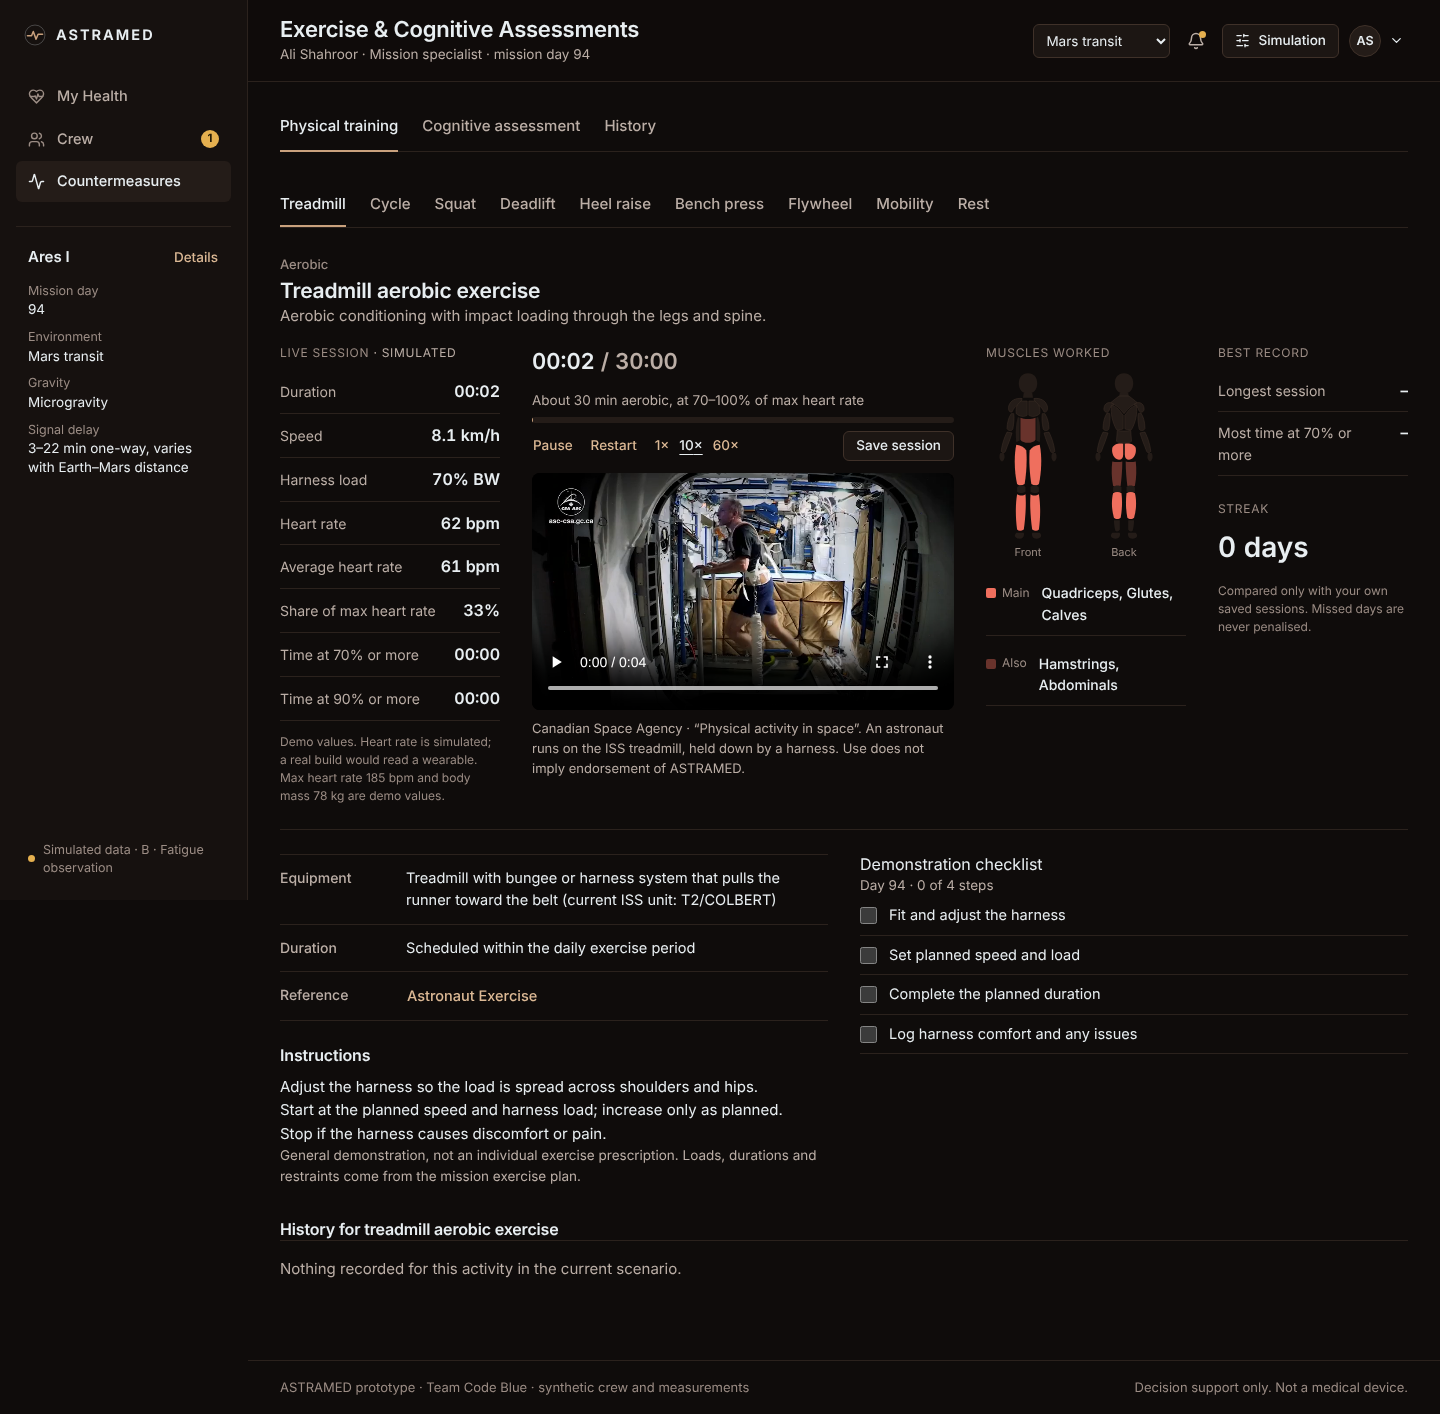
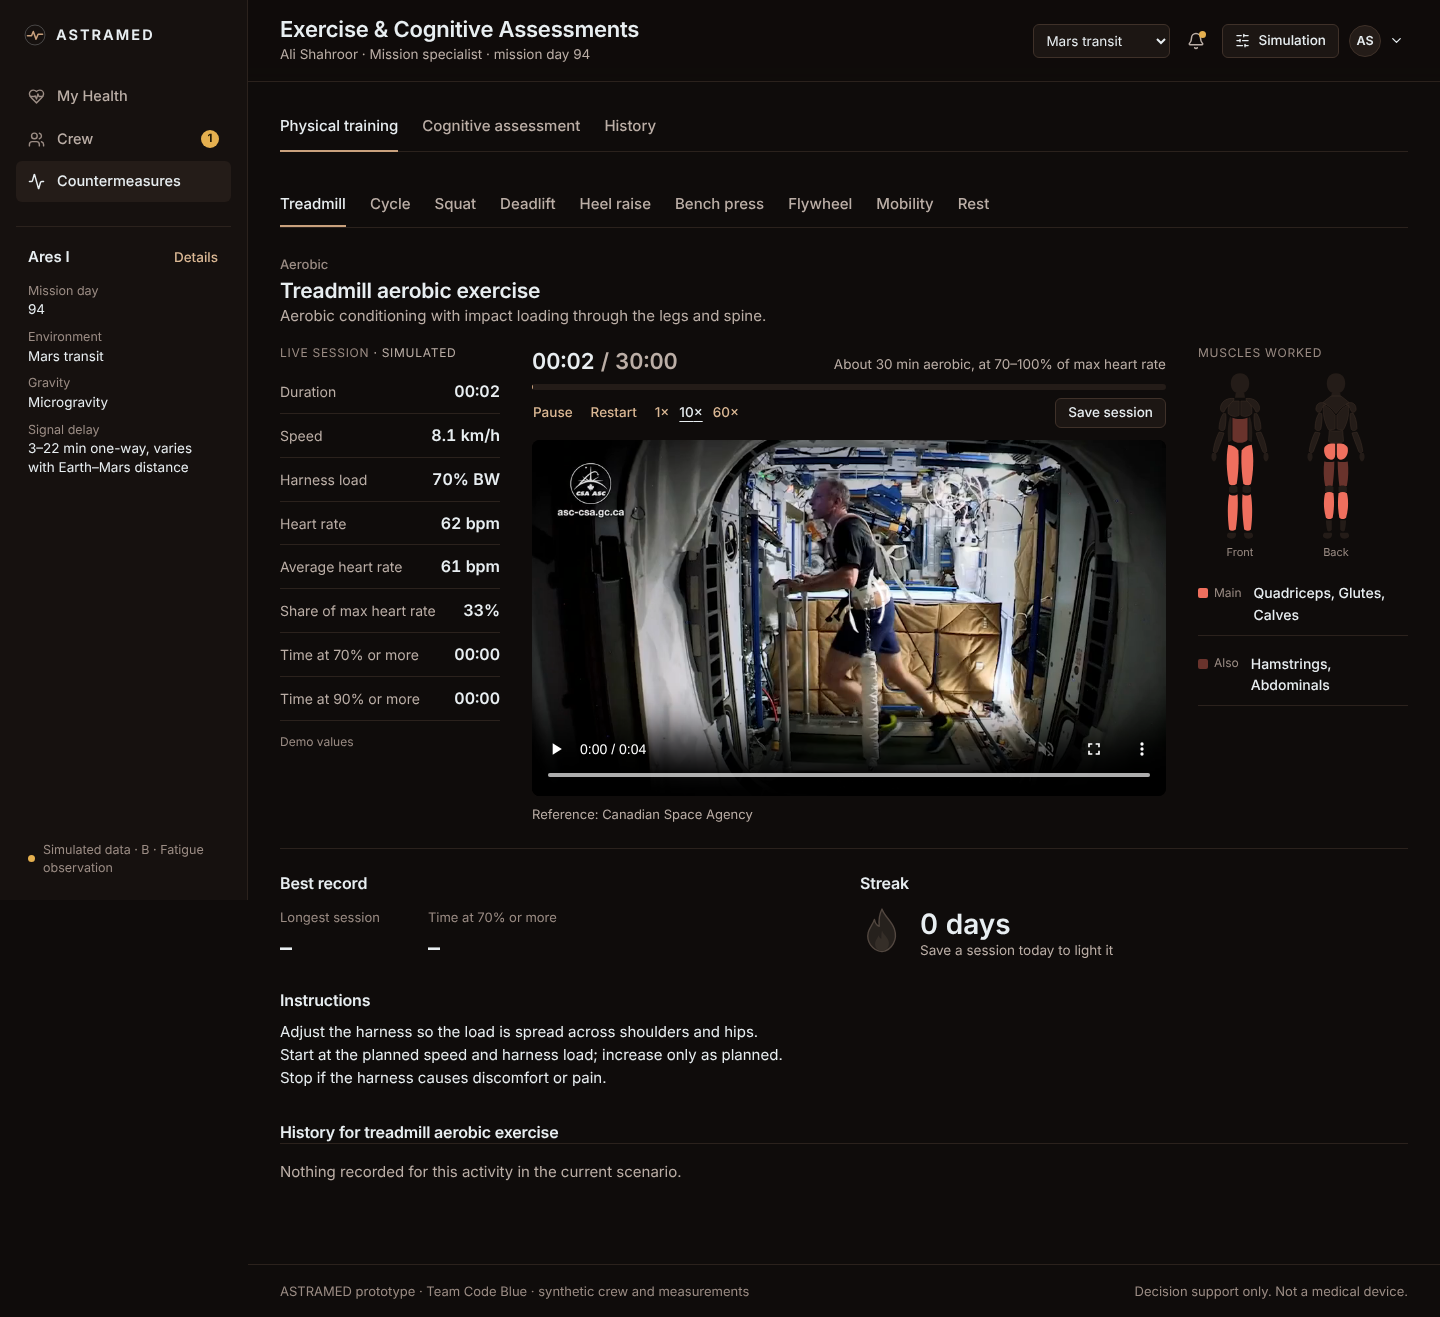
Exercise page: short notes, best record and streak below the clip
- Notes shortened to "Demo values" and "Reference: <agency>"
- Checklist and equipment/duration/reference rows removed on exercise tabs
- Best record shown as numbers side by side; streak with an unlit/lit flame image

Claude-Session: https://claude.ai/code/session_01Y4tBbifeZJJN8wfoyAcbxp

diff --git a/src/components/ExerciseStage.tsx b/src/components/ExerciseStage.tsx
@@ -14,12 +14,9 @@ export interface StageSave { seconds: number; metrics: SessionMetrics }
  * Exercise page: live metrics on the left, the looping clip with a session bar in the middle,
  * worked muscles and personal records on the right. Values come from a simulated demo session.
  */
-export function ExerciseStage({ a, restHr, bests, streak, broken, onSave }: {
+export function ExerciseStage({ a, restHr, onSave }: {
   a: Activity;
   restHr: number;
-  bests: Bests;
-  streak: number;
-  broken: string[];
   onSave: (s: StageSave) => void;
 }) {
   const kind = a.kind as Kind;
@@ -98,17 +95,6 @@ export function ExerciseStage({ a, restHr, bests, streak, broken, onSave }: {
 
   const pct = (demo.sec / plan.maxSec) * 100;
   const minPct = (plan.minSec / plan.maxSec) * 100;
-  const records: [string, string][] = kind === "aerobic" ? [
-    ["Longest session", bests.longestSec ? formatClock(bests.longestSec) : "–"],
-    ["Most time at 70% or more", bests.secAbove70 ? formatClock(bests.secAbove70) : "–"],
-  ] : kind === "strength" ? [
-    ["Estimated max", bests.estMax ? `${fmt(bests.estMax, 1)} kg` : "–"],
-    ["Heaviest set", bests.topLoad ? `${fmt(bests.topLoad)} kg` : "–"],
-    ["Best volume", bests.volume ? `${fmt(bests.volume)} kg` : "–"],
-  ] : [
-    ["Most reps", bests.reps ? fmt(bests.reps) : "–"],
-    ["Longest session", bests.longestSec ? formatClock(bests.longestSec) : "–"],
-  ];
 
   return (
     <section className="xs" aria-label={`${a.title} session`}>
@@ -117,7 +103,7 @@ export function ExerciseStage({ a, restHr, bests, streak, broken, onSave }: {
         <dl>
           {rows.map(([k, v]) => <div key={k}><dt>{k}</dt><dd>{v}</dd></div>)}
         </dl>
-        <p className="xs-note">Demo values. Heart rate is simulated; a real build would read a wearable. Max heart rate {DEMO_MAX_HR} bpm and body mass {DEMO_BODY_MASS_KG} kg are demo values.</p>
+        <p className="xs-note">Demo values</p>
       </div>
 
       <div className="xs-center">
@@ -142,20 +128,14 @@ export function ExerciseStage({ a, restHr, bests, streak, broken, onSave }: {
         {a.clip ? <Clip clip={a.clip} /> : <div className="xs-noclip">No demonstration clip for this exercise yet.</div>}
       </div>
 
-      {a.muscles && (
-        <div className="xs-body">
-          <p className="xs-eyebrow">Muscles worked</p>
-          <BodyMap primary={a.muscles.primary} secondary={a.muscles.secondary} />
-        </div>
-      )}
+      <div className="xs-side">
+        {a.muscles && (
+          <div className="xs-body">
+            <p className="xs-eyebrow">Muscles worked</p>
+            <BodyMap primary={a.muscles.primary} secondary={a.muscles.secondary} />
+          </div>
+        )}
 
-      <div className="xs-records">
-        <p className="xs-eyebrow">Best record</p>
-        <dl>{records.map(([k, v]) => <div key={k}><dt>{k}</dt><dd>{v}</dd></div>)}</dl>
-        {broken.length > 0 && <p className="xs-new" role="status">New best: {broken.join(", ")}</p>}
-        <p className="xs-eyebrow spaced">Streak</p>
-        <p className="xs-streak">{streak} {streak === 1 ? "day" : "days"}</p>
-        <p className="xs-note">Compared only with your own saved sessions. Missed days are never penalised.</p>
       </div>
     </section>
   );
@@ -166,9 +146,47 @@ function Clip({ clip }: { clip: ExerciseClip }) {
     <figure className="xs-clip">
       <video src={`${import.meta.env.BASE_URL}${clip.src}`} autoPlay={!reduceMotion} controls={reduceMotion} muted loop playsInline preload="auto" aria-label={`Looping demonstration: ${clip.shows}`} />
       <figcaption className="video-credit">
-        {clip.credit} · “{clip.title}”{clip.page && <> · <a href={clip.page} target="_blank" rel="noreferrer">Source</a></>}. {clip.shows}{clip.exact ? "" : " Shows the device, not this exact exercise."}
-        {" "}Use does not imply endorsement of ASTRAMED.
+        Reference: {clip.page ? <a href={clip.page} target="_blank" rel="noreferrer">{clip.credit}</a> : clip.credit}{clip.exact ? "" : " · shows the device, not this exact lift"}
       </figcaption>
     </figure>
+  );
+}
+
+/** Personal bests for one exercise, shown as a heading with the numbers side by side. */
+export function BestRecord({ kind, bests, broken }: { kind: Kind; bests: Bests; broken: string[] }) {
+  const items: [string, string][] = kind === "aerobic" ? [
+    ["Longest session", bests.longestSec ? formatClock(bests.longestSec) : "–"],
+    ["Time at 70% or more", bests.secAbove70 ? formatClock(bests.secAbove70) : "–"],
+  ] : kind === "strength" ? [
+    ["Estimated max", bests.estMax ? `${fmt(bests.estMax, 1)} kg` : "–"],
+    ["Heaviest set", bests.topLoad ? `${fmt(bests.topLoad)} kg` : "–"],
+    ["Best volume", bests.volume ? `${fmt(bests.volume)} kg` : "–"],
+  ] : [
+    ["Most reps", bests.reps ? fmt(bests.reps) : "–"],
+    ["Longest session", bests.longestSec ? formatClock(bests.longestSec) : "–"],
+  ];
+  return (
+    <section className="best" aria-labelledby="best-h">
+      <h3 id="best-h" className="h3">Best record</h3>
+      <dl className="best-row">{items.map(([k, v]) => <div key={k}><dd>{v}</dd><dt>{k}</dt></div>)}</dl>
+      {broken.length > 0 && <p className="xs-new" role="status">New best: {broken.join(", ")}</p>}
+    </section>
+  );
+}
+
+/** Days in a row with a saved session. The flame image is lit once today's session is saved. */
+export function Streak({ streak, doneToday }: { streak: number; doneToday: boolean }) {
+  const src = `${import.meta.env.BASE_URL}media/streak/flame-${doneToday ? "lit" : "unlit"}.svg`;
+  return (
+    <section className={`streak${doneToday ? " lit" : ""}`} aria-labelledby="streak-h">
+      <h3 id="streak-h" className="h3">Streak</h3>
+      <div className="streak-row">
+        <img src={src} alt={doneToday ? "Flame lit: session done today" : "Flame not lit: no session yet today"} width={44} height={55} />
+        <div>
+          <p className="streak-days">{streak} {streak === 1 ? "day" : "days"}</p>
+          <p className="muted small">{doneToday ? "Done today" : "Save a session today to light it"}</p>
+        </div>
+      </div>
+    </section>
   );
 }

diff --git a/src/styles/main.css b/src/styles/main.css
@@ -746,7 +746,7 @@ label.choice { text-align: center; padding: var(--s2) var(--s2); font-size: 14px
 .ex-tabs .training-item[aria-current] { color: var(--text); background: none; box-shadow: inset 0 -2px 0 var(--accent); }
 .video, .training-head, .no-video { max-width: none; }
 
-.xs { display: grid; grid-template-columns: 220px minmax(0, 1fr) 200px 190px; gap: var(--s6); align-items: start; padding-bottom: var(--s5); border-bottom: 1px solid var(--line); }
+.xs { display: grid; grid-template-columns: 220px minmax(0, 1fr) 210px; gap: var(--s6); align-items: start; padding-bottom: var(--s5); border-bottom: 1px solid var(--line); }
 .xs-eyebrow { font-size: 12px; letter-spacing: .06em; text-transform: uppercase; color: var(--text-3); margin-bottom: var(--s2); }
 .xs-eyebrow.spaced { margin-top: var(--s5); }
 .xs dl > div { display: flex; justify-content: space-between; align-items: baseline; gap: var(--s3); padding: 9px 0; border-bottom: 1px solid var(--line); }
@@ -775,14 +775,9 @@ label.choice { text-align: center; padding: var(--s2) var(--s2); font-size: 14px
 .xs-streak { font-size: 28px; font-weight: 600; font-variant-numeric: tabular-nums; }
 .xs-new { margin-top: var(--s2); font-size: 13px; color: var(--warn); }
 
-@media (max-width: 1380px) {
-  .xs { grid-template-columns: 210px minmax(0, 1fr) 190px; }
-  .xs-records { grid-column: 3; }
-}
 @media (max-width: 1080px) {
   .xs { grid-template-columns: minmax(0, 1fr) minmax(0, 1fr); }
   .xs-center { grid-column: 1 / -1; grid-row: 1; }
-  .xs-records { grid-column: auto; }
 }
 @media (max-width: 640px) {
   .xs { grid-template-columns: minmax(0, 1fr); gap: var(--s5); }
@@ -805,3 +800,18 @@ label.choice { text-align: center; padding: var(--s2) var(--s2); font-size: 14px
 .bm-key { display: inline-block; width: 10px; height: 10px; border-radius: 2px; }
 .bm-key.bm-primary { background: var(--danger); }
 .bm-key.bm-secondary { background: var(--danger); opacity: .4; }
+
+.xs-side { display: grid; gap: var(--s5); align-content: start; }
+.xs-streak { display: flex; align-items: center; gap: var(--s2); font-size: 26px; font-weight: 600; font-variant-numeric: tabular-nums; color: var(--text-2); }
+.xs-streak svg { color: var(--text-3); transition: color .3s, transform .3s; }
+.xs-streak.lit { color: var(--text); }
+.xs-streak.lit svg { color: #f2994a; fill: #f2b25e; transform: scale(1.08); filter: drop-shadow(0 0 6px rgba(242, 153, 74, .45)); }
+.best-row { display: flex; flex-wrap: wrap; gap: var(--s4) var(--s7); margin-top: var(--s3); }
+.best-row > div { display: flex; flex-direction: column-reverse; gap: 2px; }
+.best-row dd { font-size: 24px; font-weight: 600; font-variant-numeric: tabular-nums; }
+.best-row dt { font-size: 13px; color: var(--text-3); }
+
+.streak-row { display: flex; align-items: center; gap: var(--s4); margin-top: var(--s3); }
+.streak-row img { flex: none; opacity: .9; transition: transform .4s ease, filter .4s ease; }
+.streak.lit .streak-row img { transform: scale(1.06); filter: drop-shadow(0 0 10px rgba(242, 138, 46, .35)); }
+.streak-days { font-size: 28px; font-weight: 600; font-variant-numeric: tabular-nums; line-height: 1.1; }

diff --git a/src/workspace/Countermeasures.tsx b/src/workspace/Countermeasures.tsx
@@ -5,7 +5,7 @@ import { activities, astronauts } from "../data/catalog";
 import { evidenceFor } from "../data/evidence";
 import { Assessment } from "../components/Assessment";
 import { VideoPlayer } from "../components/VideoPlayer";
-import { ExerciseStage } from "../components/ExerciseStage";
+import { BestRecord, ExerciseStage, Streak } from "../components/ExerciseStage";
 import type { StageSave } from "../components/ExerciseStage";
 import { brokenRecords, formatClock, personalBests, sessionStreak } from "../engine/session";
 import { CognitiveTask } from "../components/CognitiveTask";
@@ -122,9 +122,18 @@ function TrainingDetail({ a }: { a: Activity }) {
         <p className="muted">{a.purpose}</p>
       </header>
       {a.kind ? (
-        <ExerciseStage a={a} restHr={astronaut.baseline.heart.value} bests={personalBests(sessions)} streak={sessionStreak(myDays, state.day)} broken={broken} onSave={saveStage} />
+        <ExerciseStage a={a} restHr={astronaut.baseline.heart.value} onSave={saveStage} />
       ) : a.video ? <VideoPlayer video={a.video} onWatched={markWatched} /> : <p className="no-video">No NASA demonstration video is linked for this routine.</p>}
-      <div className="training-cols">
+      {a.kind ? (
+        <div className="training-cols">
+          <div>
+            <BestRecord kind={a.kind} bests={personalBests(sessions)} broken={broken} />
+            <h3 className="h3 spaced">Instructions</h3>
+            <ol className="steps">{(a.instructions ?? []).map((s) => <li key={s}>{s}</li>)}</ol>
+          </div>
+          <Streak streak={sessionStreak(myDays, state.day)} doneToday={myDays.has(state.day)} />
+        </div>
+      ) : <div className="training-cols">
         <div>
           <dl className="qa compact">
             <div><dt>Equipment</dt><dd>{a.equipment}</dd></div>
@@ -144,7 +153,7 @@ function TrainingDetail({ a }: { a: Activity }) {
             ))}
             {checklistDone && <p className="tone ok small"><Check size={14} aria-hidden="true" /> Checklist complete for today</p>}
           </fieldset>
-          {!a.kind && <form className="session-form" onSubmit={record} noValidate>
+          <form className="session-form" onSubmit={record} noValidate>
             <h3 className="h3">Record exercise session</h3>
             <p className="muted small">Log a session you actually performed. Separate from watching the video or ticking the checklist.</p>
             <div className="form-row">
@@ -153,9 +162,9 @@ function TrainingDetail({ a }: { a: Activity }) {
             </div>
             <p id="sess-err" className="error" role="alert">{err}</p>
             <button className="btn btn-primary" type="submit">Record session</button>
-          </form>}
+          </form>
         </div>
-      </div>
+      </div>}
       <section className="training-history" aria-labelledby="hist-h">
         <h3 id="hist-h" className="h3">History for {a.title.toLowerCase()}</h3>
         {history.length + views.length === 0 ? <p className="empty">Nothing recorded for this activity in the current scenario.</p> : (

diff --git a/tests/browser/app.spec.ts b/tests/browser/app.spec.ts
@@ -206,8 +206,10 @@ test("exercise page: live demo metrics, session bar, muscles, save and best reco
   await expect(page.locator(".xs-metrics")).toContainText(/Sets done\s*[1-9]/, { timeout: 15000 });
   await expect(page.getByRole("progressbar")).not.toHaveAttribute("aria-valuenow", "0");
   await page.getByRole("button", { name: "Save session" }).click();
-  await expect(page.locator(".xs-records")).toContainText("1 day");
-  await expect(page.locator(".xs-records")).not.toContainText("Estimated max–");
+  await expect(page.locator(".streak")).toContainText("1 day");
+  await expect(page.locator(".streak")).toHaveClass(/lit/);
+  await expect(page.locator(".best")).not.toContainText("–Estimated max");
+  await expect(page.getByText("Demonstration checklist")).toHaveCount(0);
   await expect(page.locator(".training-history")).toContainText("sets");
 });
 

diff --git a/vite.config.ts b/vite.config.ts
@@ -16,7 +16,7 @@ export default defineConfig({
         const assets = [
           ...readdirSync("dist/assets").map((f) => `./assets/${f}`),
           // Bundled NASA training video, captions, exercise clips and thumbnails, so they play without a connection.
-          ...readdirSync("dist/media", { recursive: true, encoding: "utf8" }).filter((f) => /\.(mp4|vtt|jpg)$/.test(f)).map((f) => `./media/${f.replaceAll("\\", "/")}`),
+          ...readdirSync("dist/media", { recursive: true, encoding: "utf8" }).filter((f) => /\.(mp4|vtt|svg)$/.test(f)).map((f) => `./media/${f.replaceAll("\\", "/")}`),
         ];
         writeFileSync(
           "dist/sw.js",
